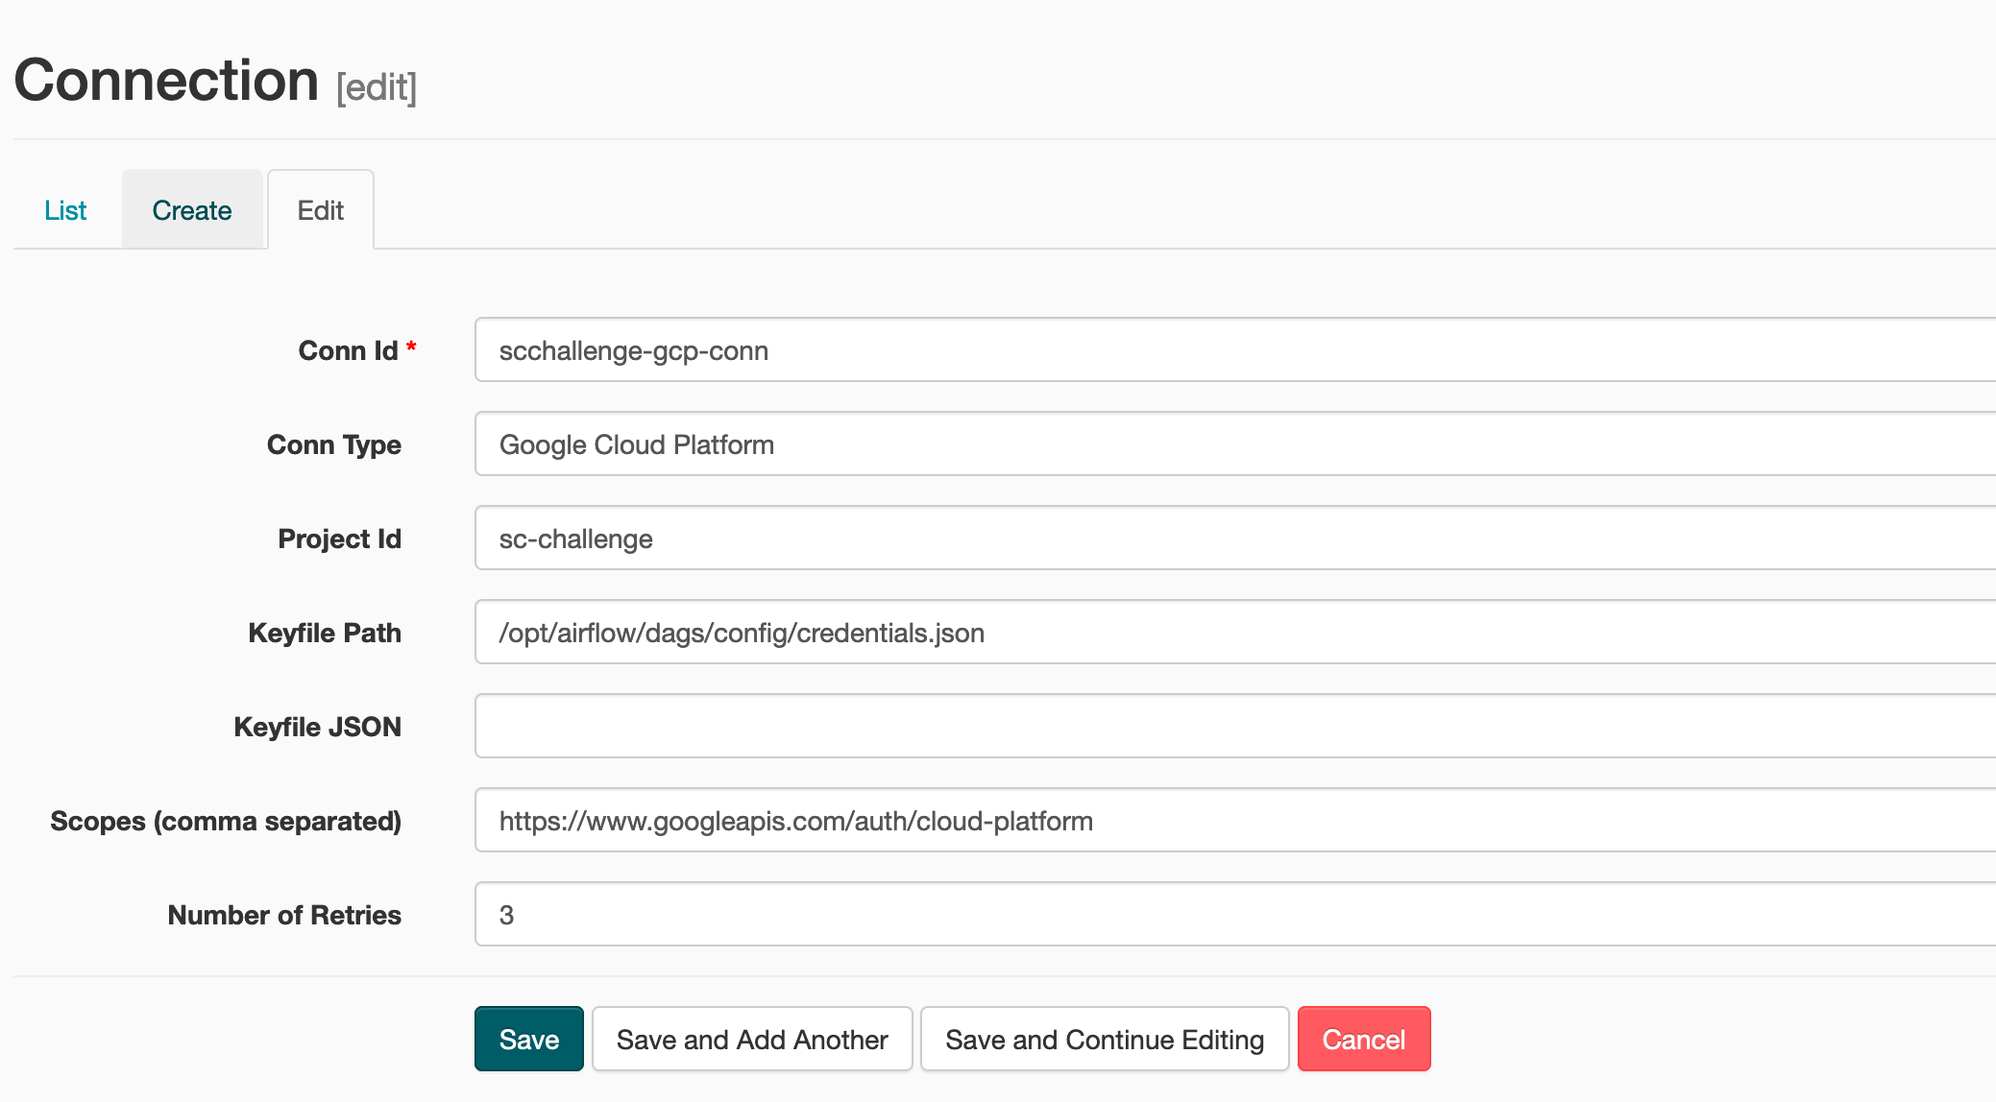
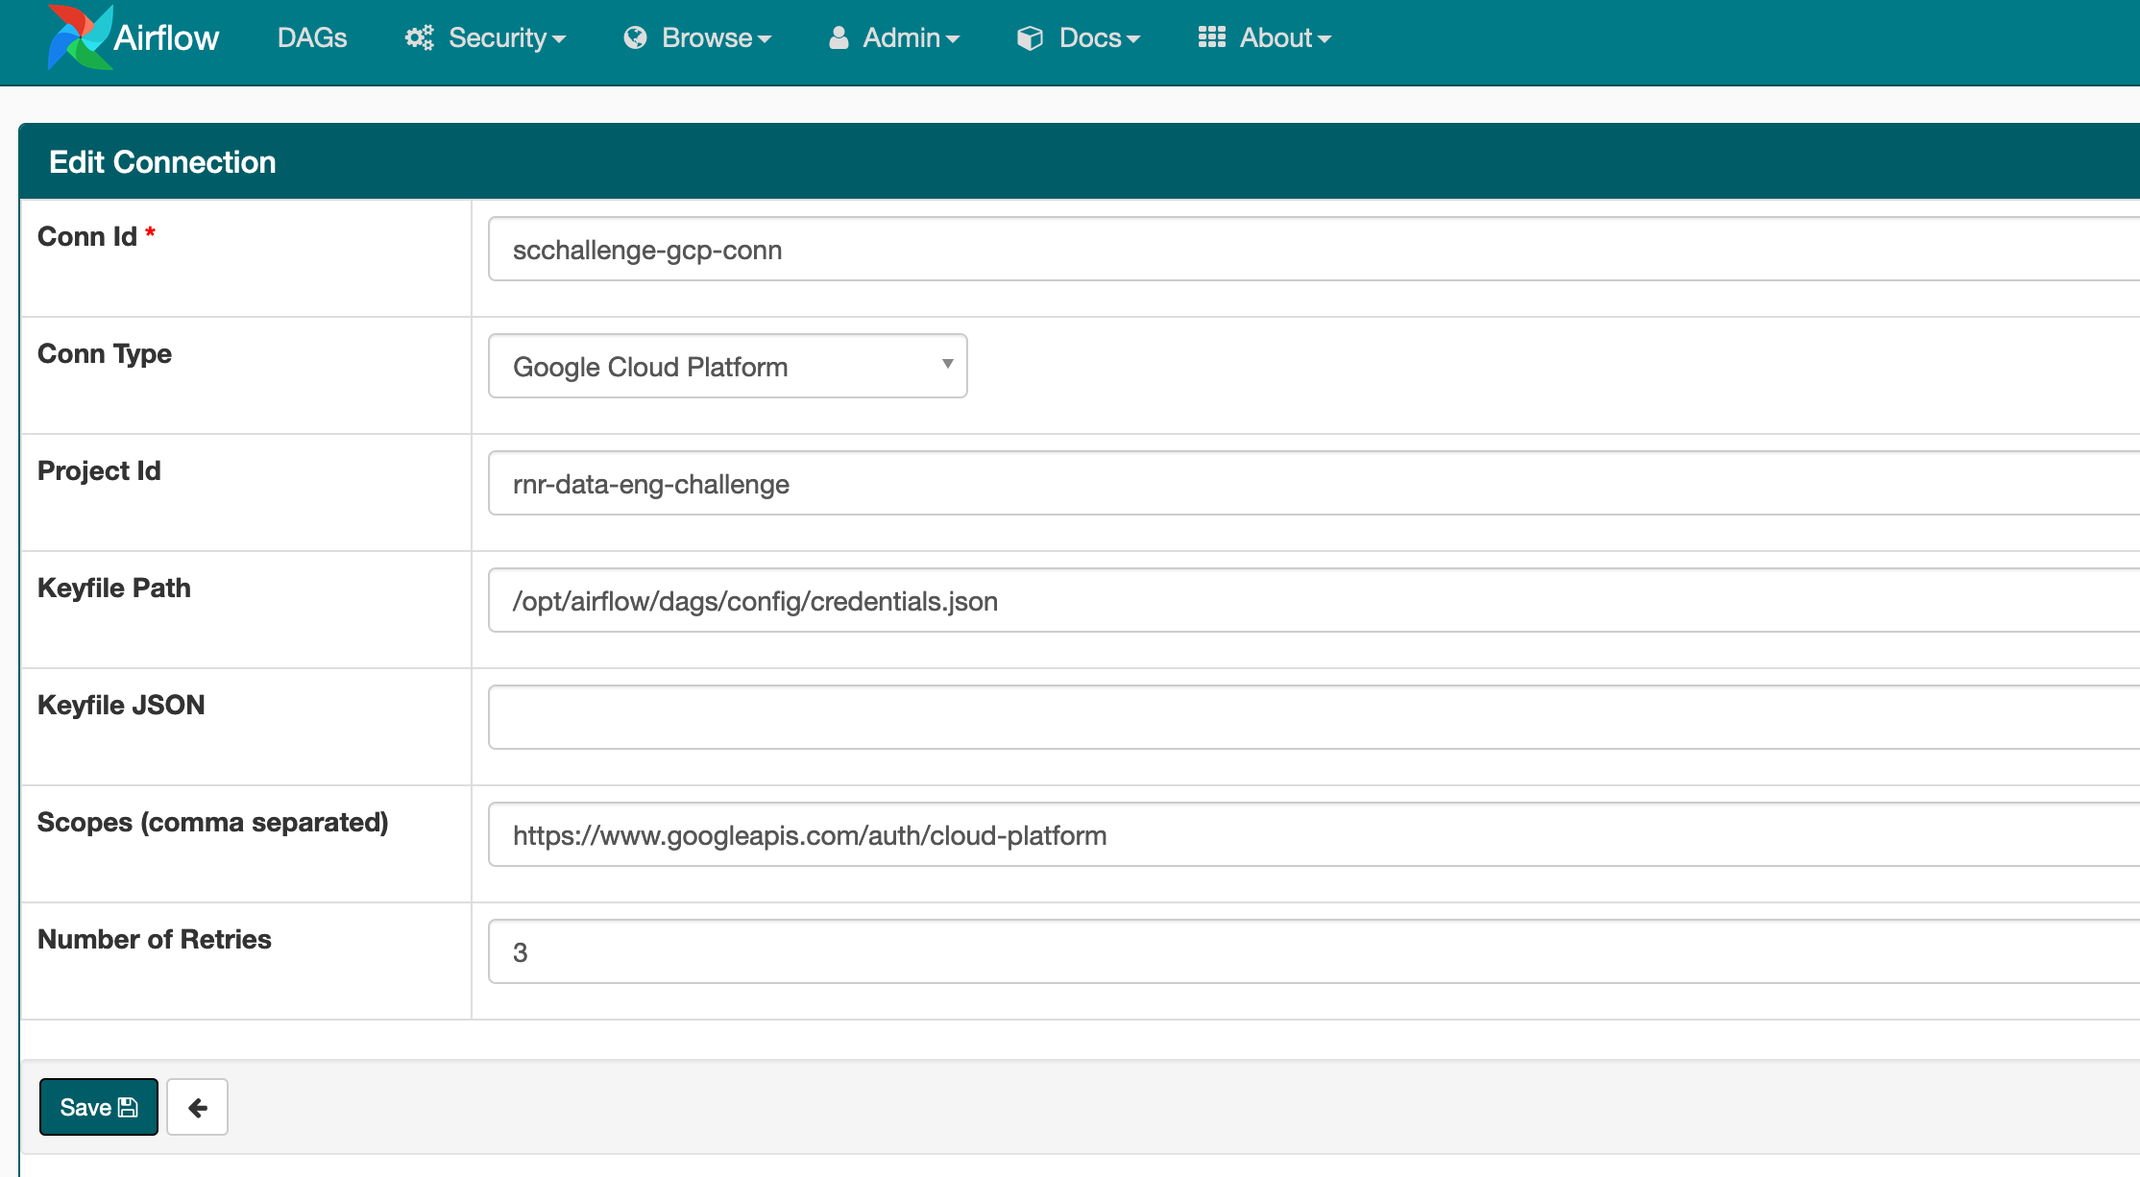
remove name from solution

diff --git a/dags/googlebiqquery.py b/dags/googlebiqquery.py
@@ -3,9 +3,20 @@ from airflow import DAG
 from airflow.contrib.operators.bigquery_operator import BigQueryOperator
 from airflow.contrib.sensors.bigquery_sensor import BigQueryTableSensor
 
-from config.settings import ProjectDetails as PD, AIRFLOW_DEFAULT_ARGS
-from scripts.sql_scripts import JOIN_TRACKID_RIGHTHOLDERID, JOIN_TRACKID_TRACKTITLE, JOIN_RIGHTSHOLDER_PAYOUT, JOIN_TRACKID_RIGHTHOLDER_PAYOUT
+from config.settings import ProjectDetails as PD
+from scripts.sql_scripts import *
 from scripts.custom_macros import *
+
+# Collect a number of default configurations for the dag
+AIRFLOW_DEFAULT_ARGS = {
+    'owner': 'johnjanedoe',
+    'depends_on_past': False,
+    'email': ['johnjane@doe.io'],
+    'email_on_failure': False,
+    'email_on_retry': False,
+    'retries': 1,
+    'retry_delay': timedelta(minutes=1),
+}
 
 with DAG(
     'googlebigquery',
@@ -15,27 +26,34 @@ with DAG(
         "retrieve_end_date": retrieve_end_date,
         "retrieve_end_timestamp": retrieve_end_timestamp,
         "retrieve_date": retrieve_date,
-        "dataset_id": f"{PD.DATASET_ID}",
-        "relevant_plays": f"{PD.DATASET_ID}.{PD.TN_RELEVANT_PLAYS}",
-        "plays_rightsholder": f"{PD.DATASET_ID}.{PD.TN_PLAYS_RIGHTSHOLDER}",
-        "plays_titles_rightsholder": f"{PD.DATASET_ID}.{PD.TN_PLAYS_TRACKS_RIGHTSHOLDER}",
-        "weekly_rightsholder_payout": f"{PD.DATASET_ID}.{PD.TN_WEEKLY_RIGHTSHOLDER_PAYOUT}",
-        "weekly_reporting": f"{PD.DATASET_ID}.{PD.TN_WEEKLY_REPORTING}"
+        "output_dataset_id": f"{PD.OUTPUT_DATASET_ID}",
+        "input_dataset_id": f"{PD.INPUT_DATASET_ID}",
+        "relevant_plays": f"{PD.OUTPUT_DATASET_ID}.{PD.TN_RELEVANT_PLAYS}",
+        "plays_rightsholder": f"{PD.OUTPUT_DATASET_ID}.{PD.TN_PLAYS_RIGHTSHOLDER}",
+        "plays_titles_rightsholder": f"{PD.OUTPUT_DATASET_ID}.{PD.TN_PLAYS_TITLE_RIGHTSHOLDER}",
+        "weekly_rightsholder_payout": f"{PD.OUTPUT_DATASET_ID}.{PD.TN_WEEKLY_RIGHTSHOLDER_PAYOUT}",
+        "weekly_reporting": f"{PD.OUTPUT_DATASET_ID}.{PD.TN_WEEKLY_REPORTING}"
     },
     default_args=AIRFLOW_DEFAULT_ARGS,
     description='Soundcloud challenge',
     start_date=datetime.strptime(PD.START_DATE, '%Y-%m-%d'),
     end_date=datetime.strptime(PD.END_DATE, '%Y-%m-%d'),
-    schedule_interval=timedelta(hours=24)) as dag:
+    schedule_interval=PD.SCHEDULE_INTERVAL) as dag:
 
+    # This Sensor checks that we do in fact have a table containing payout numbers
+    # for the week we are currently building the report for. This can be extended
+    # to other required input tables.
     cpe = BigQueryTableSensor(
         task_id='check_payout_existencs',
         project_id=PD.PROJECT_ID,
-        dataset_id=PD.DATASET_ID,
+        dataset_id="{{ input_dataset_id }}",
         table_id="payout_{{retrieve_start_date(ds)}}",
         bigquery_conn_id="scchallenge-gcp-conn",
     )
 
+    # This Operator collects the relevant daily listen tables and concatenates them
+    # into a single table. This approach can handle missing tables and reduces the
+    # resource consumption.
     cwl = BigQueryOperator(
         task_id="collect_weekly_listens",
         sql=SELECT_RELEVANT_PLAYS,
@@ -47,6 +65,10 @@ with DAG(
         location="europe-west3",
     )
 
+    # This operator joins track listens with rightsholder ids. It produces the count
+    # of plays the current week and ensures that the rightholder id was valid at
+    # the time of the play. I.e. if the track changed rightsholder within the week
+    # this will be reflected here.
     mlr = BigQueryOperator(
         task_id="merge_listens_rightsholder",
         sql=JOIN_TRACKID_RIGHTHOLDERID,
@@ -58,6 +80,11 @@ with DAG(
         location="europe-west3",
     )
 
+    # This operator joins a track title to the the track_id. Theoretically, the track
+    # title can change within the week. In that case we would have multiple track
+    # titles for a single track id. Seeing that this is not a identifier in the final table
+    # described in the task sheet I simple match the first track title that appears to the
+    # track id.
     mtt = BigQueryOperator(
         task_id="merge_trackid_tracktitle",
         sql=JOIN_TRACKID_TRACKTITLE,
@@ -69,6 +96,11 @@ with DAG(
         location="europe-west3",
     )
 
+    # This operator computes the unit payout for any given rightsholder id. It does so
+    # by simply dividing the amount paid out in that week by the total number of songs
+    # played for that rightsholder id. For hypothetical cases where a rightsholder
+    # owns multiple songs within a given week this does not allow for different
+    # unit prices across the rightsholders portfolio.
     crp = BigQueryOperator(
         task_id="construct_rightsholder_payout",
         sql=JOIN_RIGHTSHOLDER_PAYOUT,
@@ -80,6 +112,9 @@ with DAG(
         location="europe-west3",
     )
 
+    # This operator adds the unit price as computed above the final reporting table.
+    # It also does some formatting to better comply with the table descriptions as
+    # set out in the task sheet.
     weekly_report = BigQueryOperator(
         task_id="construct_rightsholder_reporting",
         sql=JOIN_TRACKID_RIGHTHOLDER_PAYOUT,

diff --git a/dags/scripts/sql_scripts.py b/dags/scripts/sql_scripts.py
@@ -2,10 +2,9 @@ SELECT_RELEVANT_PLAYS = """
     SELECT
       *
     FROM
-      `{{ dataset_id }}.listen_*` AS _listen_daily
+      `{{ input_dataset_id }}.listen_*` AS _listen_daily
     WHERE (
       _TABLE_SUFFIX = '{{ retrieve_date(ds, "monday")}}'
-      OR _TABLE_SUFFIX = '{{ retrieve_date(ds, "monday")}}'
       OR _TABLE_SUFFIX = '{{ retrieve_date(ds, "tuesday")}}'
       OR _TABLE_SUFFIX = '{{ retrieve_date(ds, "wednesday")}}'
       OR _TABLE_SUFFIX = '{{ retrieve_date(ds, "thursday")}}'
@@ -24,7 +23,7 @@ JOIN_TRACKID_RIGHTHOLDERID = """
       COUNT(listen_daily.track_id) AS track_count_per_rightsholder,
       rightsholder_info.rightsholder_id,
     FROM `{{ relevant_plays }}_{{ retrieve_start_date(ds) }}` AS listen_daily
-    JOIN {{ dataset_id }}.track_rightsholder_rollup as rightsholder_info
+    JOIN {{ input_dataset_id }}.track_rightsholder_rollup as rightsholder_info
     ON listen_daily.track_id = rightsholder_info.track_id
       AND listen_daily.event_time >= CAST(rightsholder_info.valid_from AS TIMESTAMP)
       AND listen_daily.event_time < CAST(rightsholder_info.valid_to +1 AS TIMESTAMP)
@@ -34,7 +33,7 @@ JOIN_TRACKID_RIGHTHOLDERID = """
 JOIN_TRACKID_TRACKTITLE = """
     SELECT
       weekly_listens.track_id,
-      track_rightsholder_count,
+      track_count_per_rightsholder,
       rightsholder_id,
       track_title
     FROM
@@ -46,10 +45,7 @@ JOIN_TRACKID_TRACKTITLE = """
           track_title,
           row_number() over (partition by track_id order by track_title) AS rn
          FROM
-           `{{ dataset_id }}.track_information_rollup`
-        WHERE _listen_daily.event_time>='{{ retrieve_start_timestamp(ds) }}'
-        AND _listen_daily.event_time<'{{ retrieve_end_timestamp(ds) }}'
-        AND _listen_daily.duration >= 30
+           `{{ input_dataset_id }}.track_information_rollup`
       ) AS track_information
     ON weekly_listens.track_id = track_information.track_id
     WHERE rn = 1
@@ -58,13 +54,13 @@ JOIN_TRACKID_TRACKTITLE = """
 JOIN_RIGHTSHOLDER_PAYOUT = """
     SELECT
       weekly_rightsholder.rightsholder_id,
-      SUM(track_rightsholder_count) AS total_plays,
-      SUM(amount) AS weekly_payout,
-      SUM(amount) / SUM(track_rightsholder_count) AS per_track_payout
+      SUM(track_count_per_rightsholder) AS total_plays,
+      amount AS weekly_payout,
+      amount / SUM(track_count_per_rightsholder) AS per_track_payout
     FROM {{ plays_titles_rightsholder }}_{{ retrieve_start_date(ds) }} AS weekly_rightsholder
-    JOIN {{ dataset_id }}.payout_{{ retrieve_start_date(ds) }} as payout_rightsholder
+    JOIN {{ input_dataset_id }}.payout_{{ retrieve_start_date(ds) }} as payout_rightsholder
     ON weekly_rightsholder.rightsholder_id = payout_rightsholder.rightsholder_id
-    GROUP BY rightsholder_id
+    GROUP BY amount, rightsholder_id
 """
 
 JOIN_TRACKID_RIGHTHOLDER_PAYOUT = """
@@ -74,7 +70,7 @@ JOIN_TRACKID_RIGHTHOLDER_PAYOUT = """
       track_id,
       track_title,
       weekly_listens.rightsholder_id,
-      track_rightsholder_count as total_plays,
+      track_count_per_rightsholder as total_plays,
       per_track_payout as unit_price
     FROM
       `{{ plays_titles_rightsholder }}_{{ retrieve_start_date(ds) }}` AS weekly_listens

diff --git a/dags/config/settings.py b/dags/config/settings.py
@@ -1,28 +1,15 @@
-import json
 import airflow
 from datetime import timedelta
 
-CONFIG_FILE_PATH="dags/config/configs.json"
-with open(CONFIG_FILE_PATH) as jsonfile:
-    data = json.load(jsonfile)
-
 class ProjectDetails:
-    PROJECT_ID = data["PROJECT_ID"]
-    DATASET_ID = data["DATASET_ID"]
-    TN_RELEVANT_PLAYS = data["TN_RELEVANT_PLAYS"]
-    TN_PLAYS_RIGHTSHOLDER = data["TN_PLAYS_RIGHTSHOLDER"]
-    TN_PLAYS_TITLE_RIGHTSHOLDER = data["TN_PLAYS_TITLE_RIGHTSHOLDER"]
-    TN_WEEKLY_RIGHTSHOLDER_PAYOUT = data["TN_WEEKLY_RIGHTSHOLDER_PAYOUT"]
-    TN_WEEKLY_REPORTING = data["TN_WEEKLY_REPORTING"]
-    END_DATE = data["END_DATE"]
-    START_DATE = data["START_DATE"]
-
-AIRFLOW_DEFAULT_ARGS = {
-    'owner': 'benglaeser',
-    'depends_on_past': False,
-    'email': ['ben.glaeser@tuta.io'],
-    'email_on_failure': False,
-    'email_on_retry': False,
-    'retries': 1,
-    'retry_delay': timedelta(minutes=1),
-}
+    PROJECT_ID = "rnr-data-eng-challenge"
+    OUTPUT_DATASET_ID = "inr006"
+    INPUT_DATASET_ID = "challenge_dataset"
+    TN_RELEVANT_PLAYS = "weekly_plays"
+    TN_PLAYS_RIGHTSHOLDER = "weekly_plays_rightsholder"
+    TN_PLAYS_TITLE_RIGHTSHOLDER = "weekly_plays_title_rightsholder"
+    TN_WEEKLY_RIGHTSHOLDER_PAYOUT = "weekly_rightsholder_payout"
+    TN_WEEKLY_REPORTING = "weekly_reporting"
+    END_DATE = "2019-05-19"
+    START_DATE = "2019-05-06"
+    SCHEDULE_INTERVAL= timedelta(hours=48)

diff --git a/dags/scripts/custom_macros.py b/dags/scripts/custom_macros.py
@@ -37,4 +37,4 @@ def retrieve_date(ds, day: str) -> str:
     """ Retrieve date of weekday for selection listen tables"""
     ds = datetime.strptime(ds, '%Y-%m-%d')
     shifter = switch_daystring_to_index(day)
-    return (ds - timedelta(ds.weekday()-shifter).strftime("%Y%m%d")
+    return (ds - timedelta(ds.weekday()-shifter)).strftime("%Y%m%d")

diff --git a/README.md b/README.md
@@ -1,63 +1,78 @@
 # Weekly Royalty
 
-The project is implemented using **python** and **airflow** and can be spun up with a simple docker-compose command.
+This repository contains my solution to a royalty reporting challenge. The goal was to connect tables that collect daily song plays to correct rightsholders and construct a weekly summary.
 
-Considering the size of the project the airflow setup comes with significant overhead. I decided for the approach both to allow for convenient monitoring and the possibility to scale at a later stage. The current versions runs locally using the LocalExecutor. For production this could be moved to a more suitable environment such as *google cloud compose*.
+The project is implemented using **Python** and **Airflow** and can be spun up with a simple **docker-compose** command. In the following documentation I outline both the pipeline I built to solve the problem as well as the necessary steps to get up and running yourself.
+
+One comment on the project architecture. Considering the size of the project the airflow setup comes with significant overhead. I still decided for the approach both to allow for convenient monitoring and the possibility to scale at a later stage. The current versions runs locally using the LocalExecutor. For production this could be moved to a more suitable environment such as *google cloud compose*.
 
 ### What happens
 
-The pipeline follows a few chained steps that can be easily expanded, for example to include more tests.
+The pipeline follows a number of sequential steps that can be easily expanded, for example to include more tests. The steps are listed below.
 
-1. The pipeline checks that the payout table *payout_yyyymmdd* for the running week exists. It does so using a BigQueryTableSensor that ships with Airflow. The table validation can easily be expanded to other tables.
+1. The pipeline checks that the payout table *payout_yyyymmdd* for the running week exists. It does so using a **BigQueryTableSensor** that ships with Airflow. The table validation can easily be expanded to other tables. If the table is detected we move on to the second step.
 
-2. It collects the relevant daily listens table to reduce resource consumption in the next phase.
 
-Output Table :arrow_forward:  **weekly_plays_yyyymmdd**
+2. The second steps collects the relevant daily *listen_\** tables  to reduce resource consumption in the next phase.
 
-3. It matches the track_id from *weekly_plays_yyyymmdd* to a rightsholder_id from *track_rightsholder_rollup*. It does so while also validating that the rightsholder is valid at the time of the play.
+  Output Table :arrow_forward:  **weekly_plays_yyyymmdd**
 
-Output Table :arrow_forward:  **weekly_plays_rightsholder_yyyymmdd**
 
-4. It adds a track_title to the previous result using *track_information_rollup*. Seeing that the track_title is rather decorative and is not mentioned as a unique identifier in the final reporting table in the task sheet I simply assign the first track_title that appears within the week for any given track_id.
+3. The third stage matches the track_id from *weekly_plays_yyyymmdd* to a rightsholder_id from *track_rightsholder_rollup*. It does so while also validating that the rightsholder id is valid at the time of the play.
 
-Output Table :arrow_forward:  **weekly_plays_title_rightsholder_yyyymmdd**
+  Output Table :arrow_forward:  **weekly_plays_rightsholder_yyyymmdd**
 
-5. It collects the total number of plays for a given rigthsholder id within a given week using *weekly_plays_rightsholder_yyyymmdd* and *payout_yyyymmdd*. From that it computes the unit price for each rightsholder id. This does not allow for a single rightsholder to have multiple unit prices across different tracks. I comment on this below.
 
-Output Table :arrow_forward:  *weekly_rightsholder_payout_yyyymmdd*
+4. The fourth steps adds a track_title to the previous result using *track_information_rollup*. Seeing that the track_title is rather decorative and is not mentioned as a unique identifier in the final reporting table in the task sheet I simply assign the first track_title that appears within the week for any given track_id.
 
-6. It merges the unit the unit price from *weekly_rightsholder_payout_yyyymmdd* on to *weekly_track_title_rightsholder_yyyymmdd* and does some renaming to produce the final reporting tool as described in the task sheet.
+  Output Table :arrow_forward:  **weekly_plays_title_rightsholder_yyyymmdd**
 
-Output Table :arrow_forward:  *weekly_reporting_yyyymmdd*
+
+5. The fifth step collects the total number of plays for a given rigthsholder id within a given week using *weekly_plays_rightsholder_yyyymmdd* and *payout_yyyymmdd*. From that it computes the unit price for each rightsholder id. This does not allow for a single rightsholder to have multiple unit prices across different tracks. I comment on this below.
+
+  Output Table :arrow_forward:  **weekly_rightsholder_payout_yyyymmdd**
+
+
+6. The last stage merges the unit unit price from *weekly_rightsholder_payout_yyyymmdd* on to *weekly_track_title_rightsholder_yyyymmdd* and does some renaming to produce the final reporting tool as described in the task sheet.
+
+  Output Table :arrow_forward:  **weekly_reporting_yyyymmdd**
 
 **Further information**:
 
-* Weeks run from Monday to Sunday
-* The script is run automatically every night
+* Weeks run from **Monday** to **Sunday**
+* The script is run automatically every day at **midnight**
 * No matter which day of the week it is the script recognises the running week which it identifies by the date of the first day of the week.
 * When the script is first started it runs the pipeline for every week going back to a provided start date.
 
 ## Get up and running
 
+The project is built using docker to allow convenient porting to different machines and potential future scaling. As a scheduling tool I have decided for airflow which allows to monitor the pipeline and comes with a number of useful out-of-the-box tools to interact with Googles BigQuery system. In the following I describe the necessary steps to start the pipeline in a local enviroment.
+
 1. Make sure you have [docker](https://docs.docker.com/engine/install/) and [docker-compose](https://docs.docker.com/compose/install/) installed on your system.
 
-2. You need to setup your google environment. The details go beyond the scope here but generally the steps are.
+2. Ensure that you have the necessary information and files to connect airflow and your google environment. To start the pipeline you need the following items.
 
-  * create a google cloud project
-  * enable the bigquery API for the project
-  * create a service account for the project
-  * create and download a key for the service account
-  * rename and move the key to `/dags/config/credentials.json`
+  * project id: **rnr-data-eng-challenge**
+  * input dataset: **challenge_dataset**
+  * output dataset: **inr006**
+  * keyfile: You need a json **credential key** that is connected to a service account that is linked to the project and has read permissions for the input dataset and write permissions to the output dataset. Place this key in the following locaction within the repository (possible once you have cloned into the repository): `/dags/config/credentials.json`
+
 
 2. Using ssh, clone repo to local enviroment
 
-  `git clone git@github.com:wbglaeser/royalty_reporting.git`
+  `git clone git@github.com:***/royalty_reporting.git`
 
-3. Navigate to repo directory and start up docker-compose
+
+3. Navigate to repo directory and place your key file in the appropriate location.
+
+  `cd royalty_reporting && mv [path/keyfile.json] dags/config/credentials.json`
+
+4. Now you can start up the docker compose file
 
   `docker-compose up`
 
-4. Go to Airflow WebUI which is now running at [localhost](http://localhost:8080/admin/).
+
+4. Go to Airflow WebUI which is now running at [localhost](http://localhost:8080/admin/). You may have to log in. The required admin account will be have been created at startup.
 
 5. Add google connection to connections
 
@@ -71,10 +86,13 @@ Output Table :arrow_forward:  *weekly_reporting_yyyymmdd*
 
   ![Details Tag](docs/details.png)
 
-6. Now you can start the airflow pipeline. It will start pulling data from the first week for which I have create mock data. The scheduler should now run the pipeline from up until today on a daily basis.
+6. Now you can start the airflow pipeline by turning on the dag. The pipeline should now be running. Seeing that the start date lies in the past the pipeline will be busy initially catching up to today's date.
 
-![Start Dag](docs/start_dag.png)
+  ![Start Dag](docs/start_dag.png)
 
+## Adapt Pipeline
+
+In case you wish to adapt the pipeline you can change the settings in the file `dags/config/settings.py`. Here you can change the timeframe for running the pipeline, the scheduled interval or the address of output or input datasets.
 
 ## Comments on the data
 
@@ -87,6 +105,7 @@ While setting up the reporting tool I came across some small questions. I outlin
 * **multiple track_title on a track id**
 
   From the datasheet it seems possible that there can be multiple track_id, track_title and rightsholder_id combinations within a single reporting week. The final output table described in the task however only points to unique track_id and rightsholder_id combinations. The code therefor simply picks the first track_title for a given track_id within a week.
+
 
 ## Troubleshooting
 
